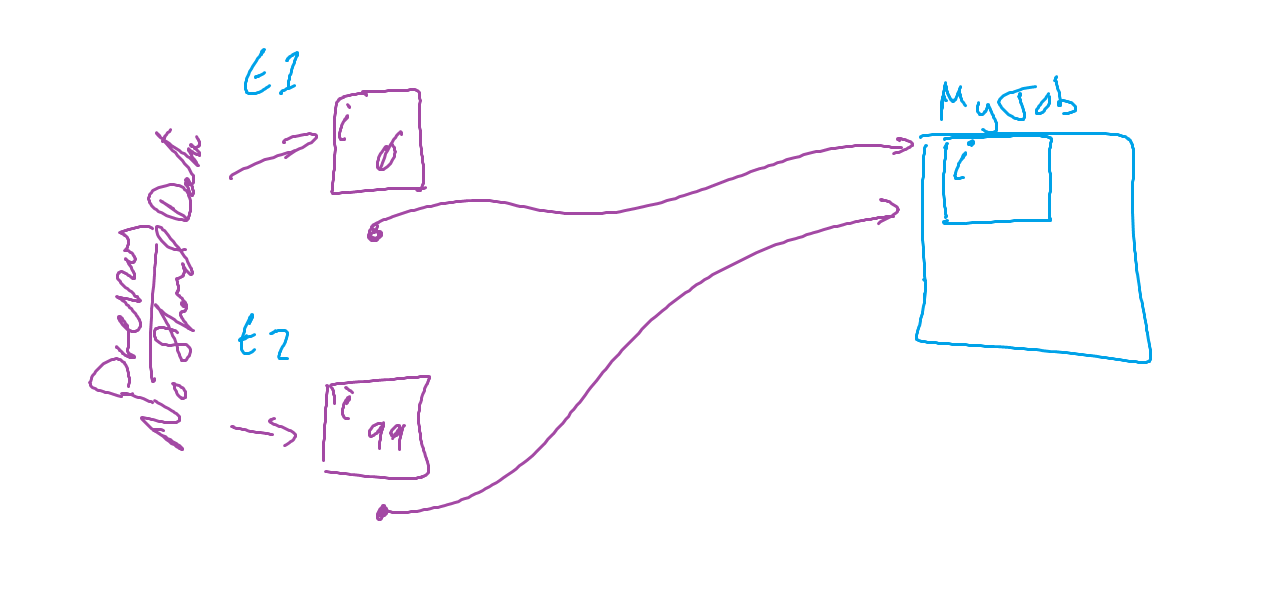
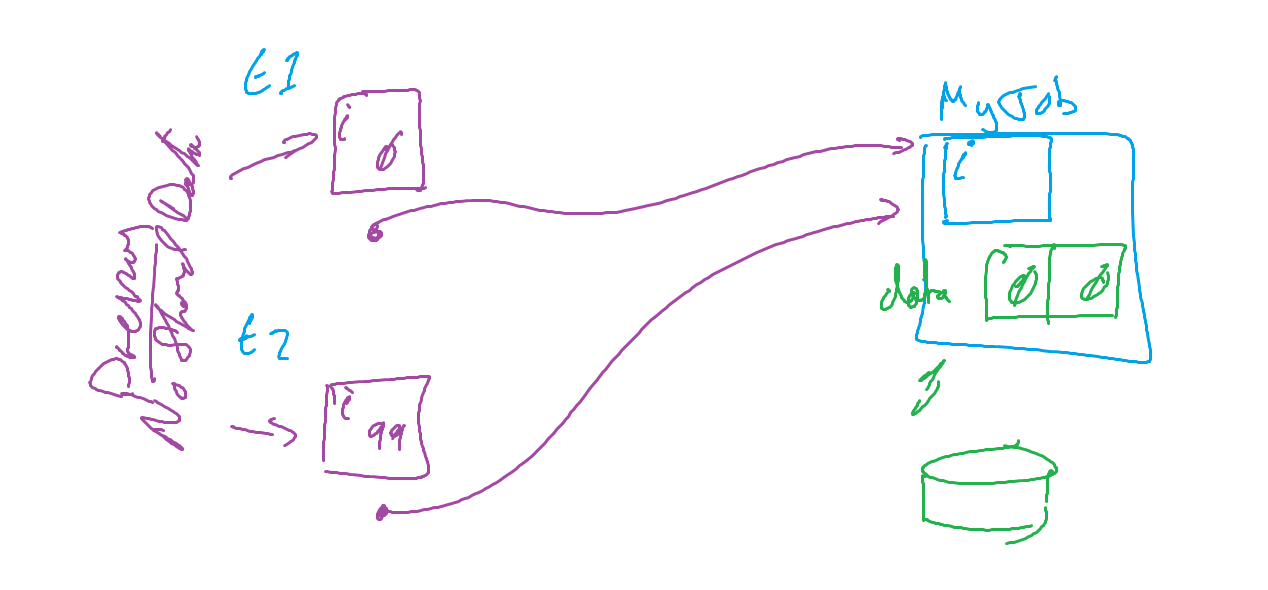
Break Two

diff --git a/src/main/java/simple/Stopper.java b/src/main/java/simple/Stopper.java
@@ -1,0 +1,20 @@
+package simple;
+
+public class Stopper {
+  private static boolean stop = false;
+
+  public static void main(String[] args) throws InterruptedException {
+    new Thread(() -> {
+      System.out.println(Thread.currentThread().getName() + " Starting");
+      while (! stop)
+        System.out.print(".")
+            ;
+      System.out.println(Thread.currentThread().getName() + " Stopping");
+    }).start();
+
+    System.out.println("Stopper thread started...");
+    Thread.sleep(1_000);
+    stop = true;
+    System.out.println("Stop set to true, main exiting..");
+  }
+}

diff --git a/src/main/java/simple/RunnableTwo.java b/src/main/java/simple/RunnableTwo.java
@@ -1,0 +1,22 @@
+package simple;
+
+public class RunnableTwo {
+  public static void main(String[] args) throws InterruptedException {
+    int [] data = {0, 0};
+    Runnable job = () -> {
+      for (int i = 0; i < 1_000_000; i++) {
+        data[0]++;
+        data[1]++;
+      }
+      System.out.println("Finished");
+    };
+    Thread t1 = new Thread(job);
+    t1.start();
+    Thread t2 = new Thread(job);
+    t2.start();
+    t1.join();
+    t2.join();
+    System.out.println("Finished, values are " +
+        data[0] + " and " + data[1]);
+  }
+}
